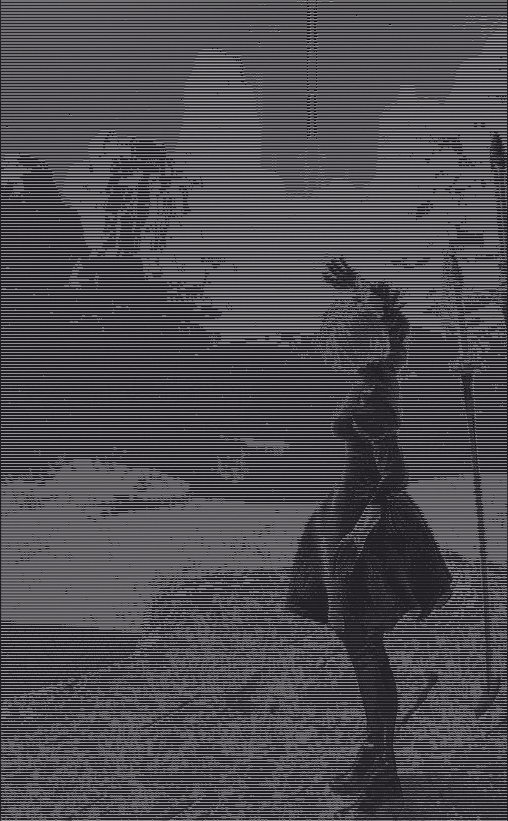
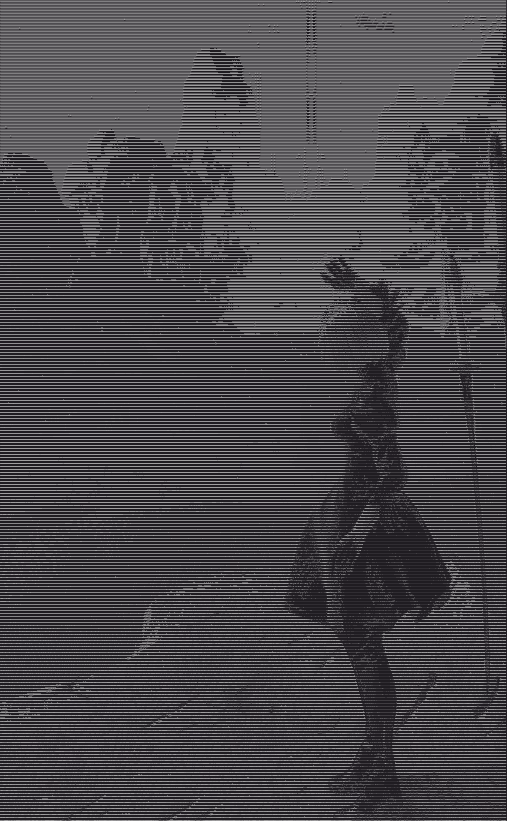
edited char palette

diff --git a/src/ascii.cc b/src/ascii.cc
@@ -55,12 +55,11 @@ float iota() {
 std::array<std::pair<float, char>, SIZE> Brightness = {
     std::make_pair(iota(), ' '),
     std::make_pair(iota(), '`'),
+    std::make_pair(iota(), '\''),
     std::make_pair(iota(), '.'),
     std::make_pair(iota(), ':'),
     std::make_pair(iota(), ';'),
     std::make_pair(iota(), '/'),
-    std::make_pair(iota(), '}'),
-    std::make_pair(iota(), '['),
     std::make_pair(iota(), '-'),
     std::make_pair(iota(), '~'),
     std::make_pair(iota(), '"'),
@@ -69,11 +68,12 @@ std::array<std::pair<float, char>, SIZE> Brightness = {
     std::make_pair(iota(), '*'),
     std::make_pair(iota(), 'u'),
     std::make_pair(iota(), 'o'),
+    std::make_pair(iota(), 'x'),
     std::make_pair(iota(), 'a'),
-    std::make_pair(iota(), '%'),
     std::make_pair(iota(), '8'),
     std::make_pair(iota(), 'N'),
     std::make_pair(iota(), '#'),
+    std::make_pair(iota(), '%'),
     std::make_pair(iota(), '$'),
     std::make_pair(iota(), '&'),
     std::make_pair(iota(), 'W'),
